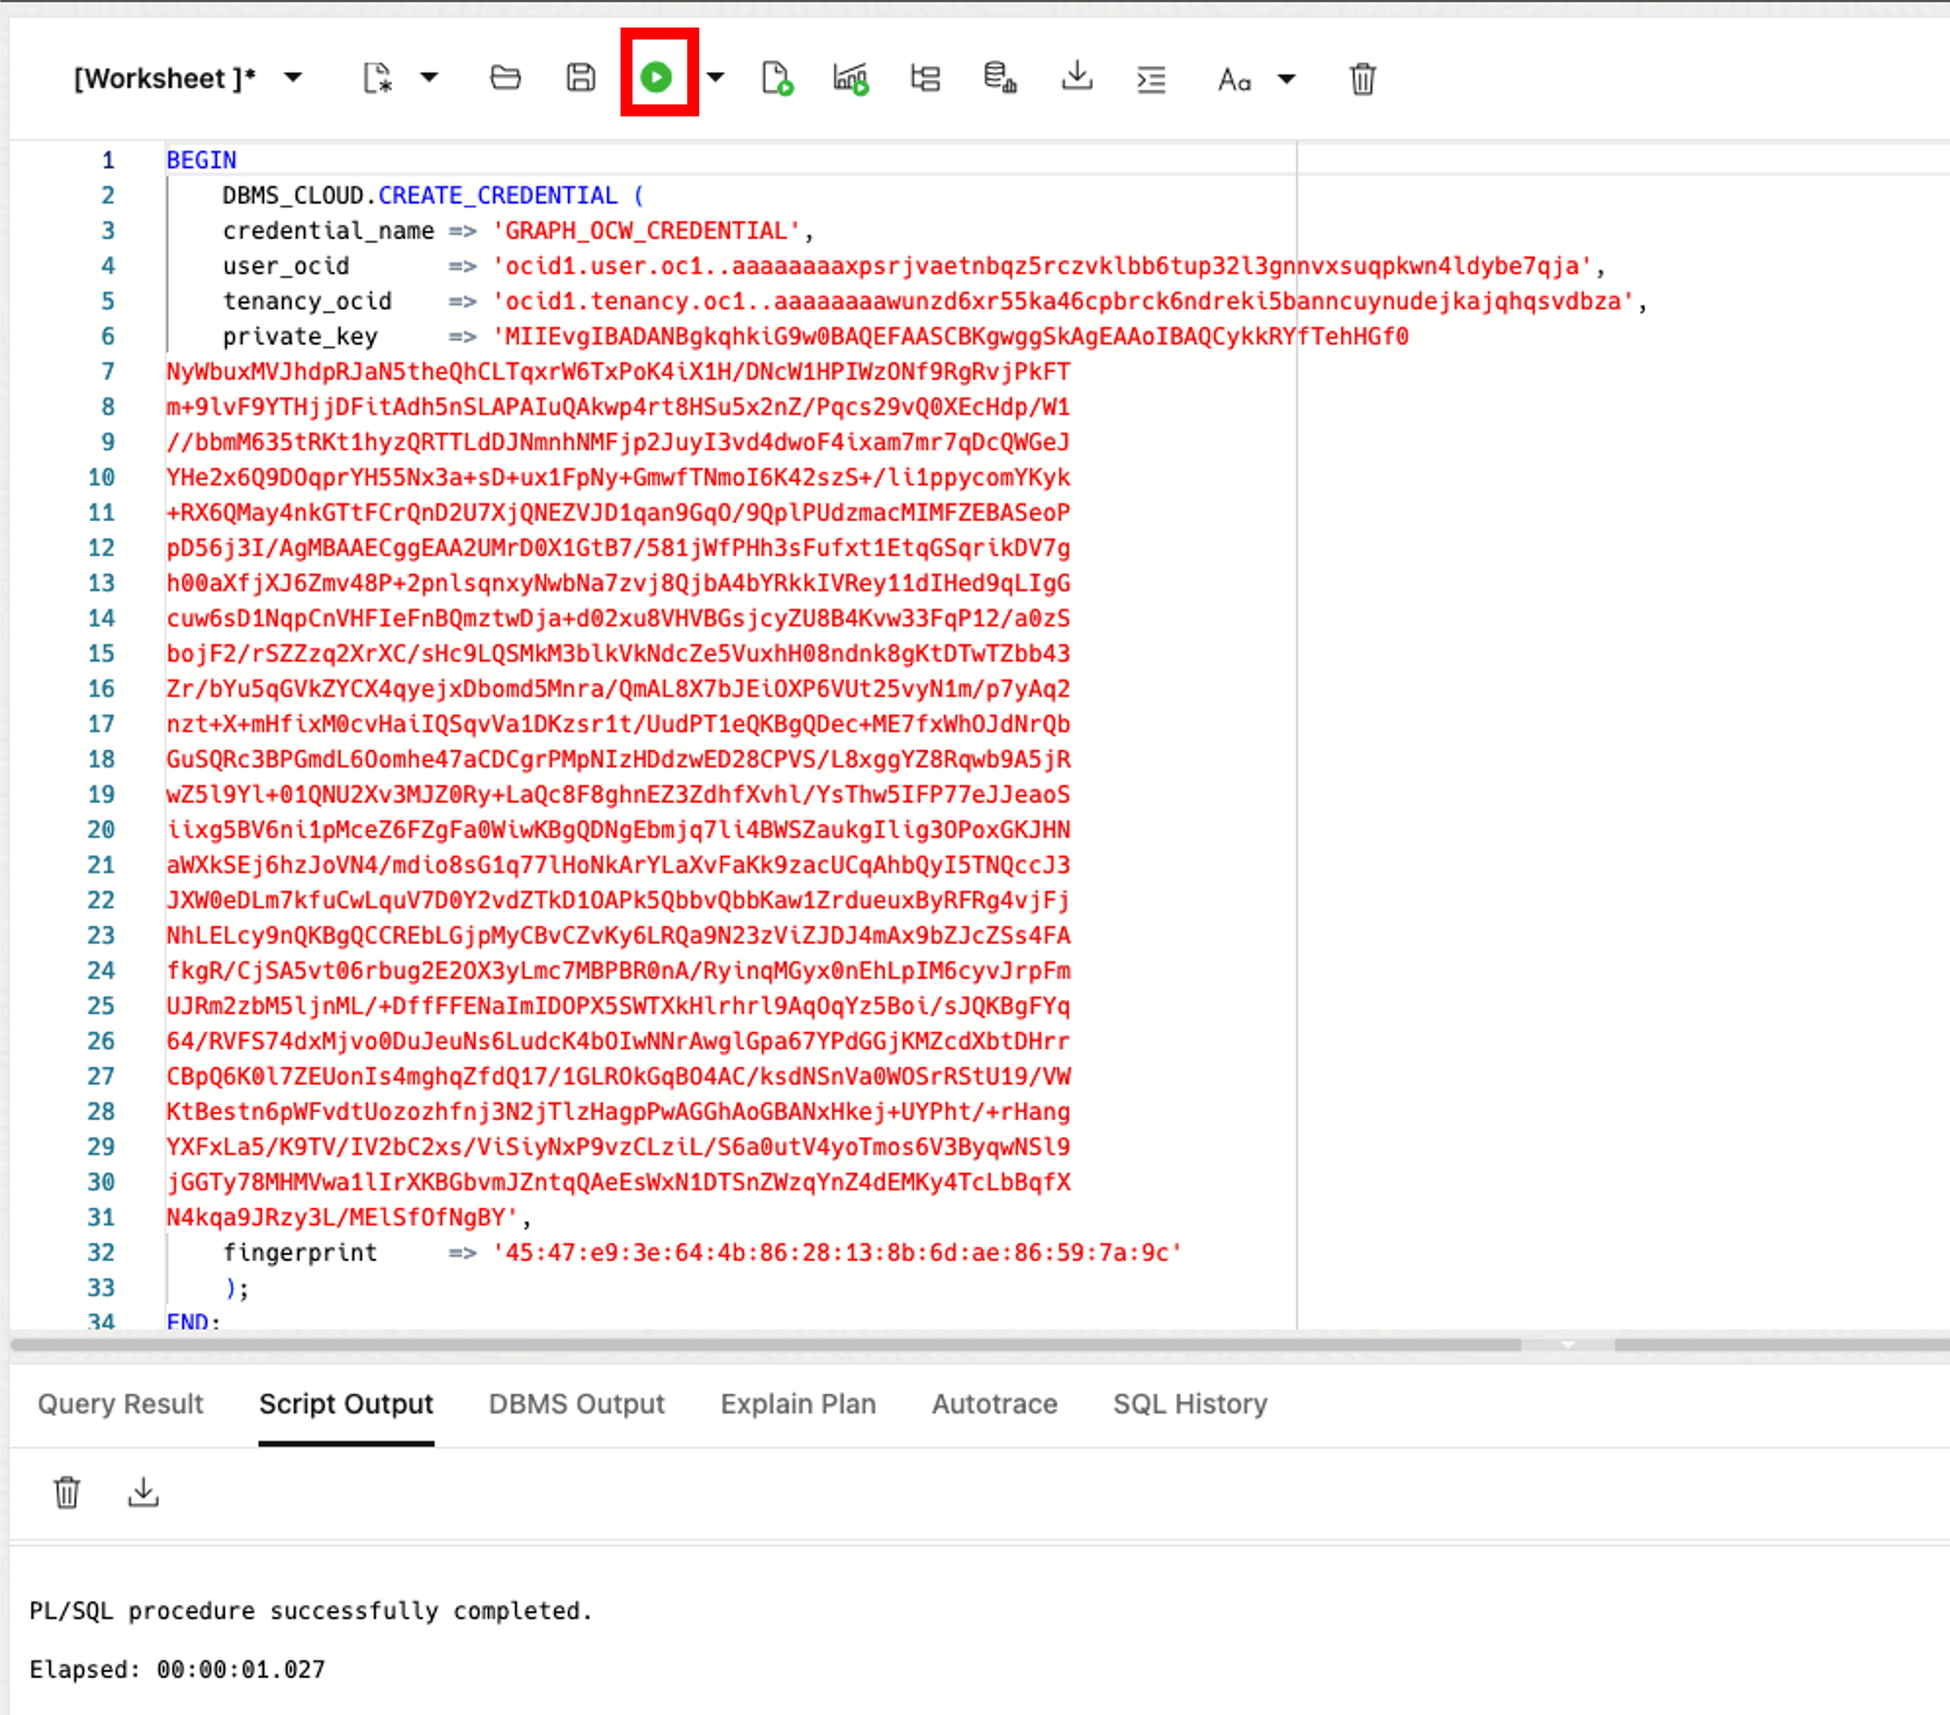
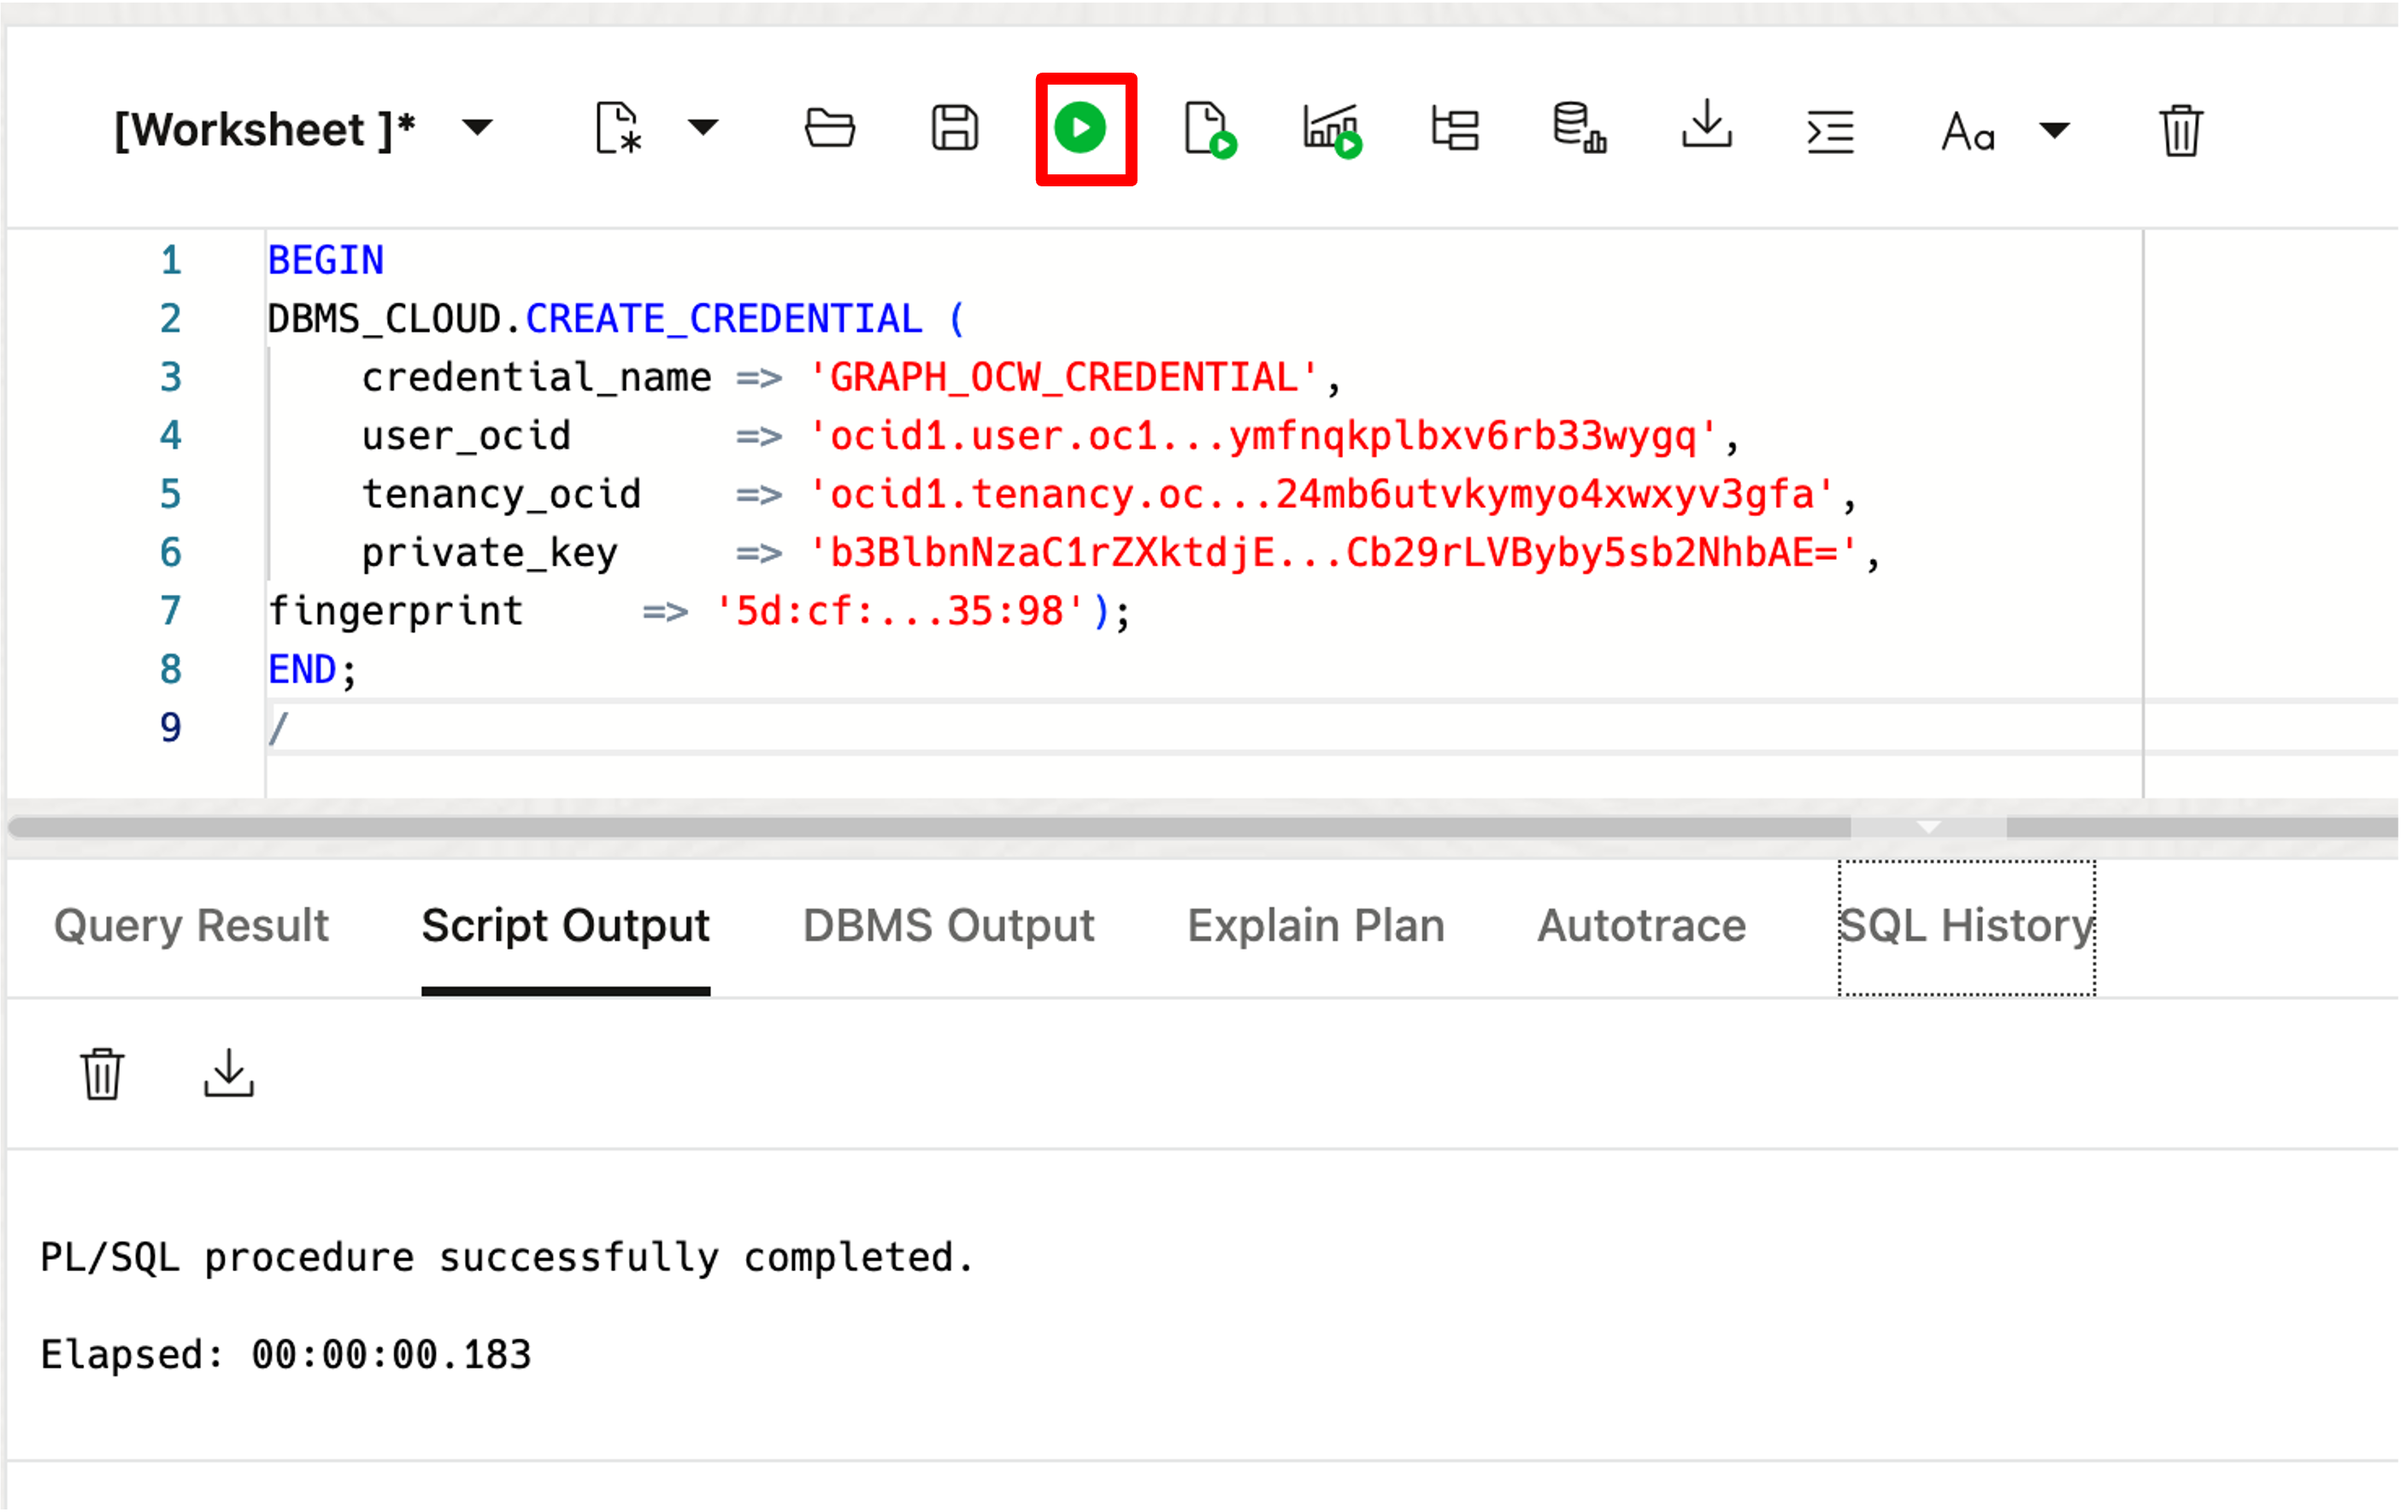
updated instructions

diff --git a/adb-graph/graph-ml-23ai/genai-setup/genai-setup.md b/adb-graph/graph-ml-23ai/genai-setup/genai-setup.md
@@ -71,10 +71,9 @@ Learn how to
     <tenancy> can be found in the text file as 'tenancy'
     <private_key> can be found as the contents .pem file that does not have the '_public' extension.
     <fingerprint> can be found in the text file as 'fingerprint' 
-
     ```
 
-    Copy and paste the following code, and make the necessary changes: 
+    Copy and paste the following code, and make the necessary changes.
 
     ```
     <copy>
@@ -90,7 +89,7 @@ Learn how to
     /</copy>
     ```
 
-    Here is an example of how it should look:
+    Here is **an example** of how it should look. Then run the the script using the **Run Statement** button to create the DBMS Cloud Credential. 
 
     ```
     BEGIN
@@ -104,38 +103,43 @@ Learn how to
     /
     ```
 
-    Run the the script using the **Run Statement** button to create the DBMS Cloud Credential. 
-
     ![Create the DBMS Cloud Credential.](images/dbms-credentials.png " ") 
 
-3. Then, create a Gen AI profile using the default llama model. Copy and run this script using the **Run Script** button. 
+3. Then, create a Gen AI profile using the default llama model. You will need this information:  
 
     ```
-    <copy>begin    
-
-        -- drops the profile if it already exists
-        DBMS_CLOUD_AI.drop_profile(profile_name => 'genai', force => true);
-
-        -- Create an AI profile that uses the default LLAMA model on OCI
-        dbms_cloud_ai.create_profile(
-            profile_name => 'genai',
-            attributes =>       
-                '{"provider": "oci",
-                "credential_name": "GRAPH_OCW_CREDENTIAL",
-                "comments":"true",            
-                "object_list": [
-                    {"owner": "MOVIESTREAM", "name": "MOVIE"},
-                    {"owner": "MOVIESTREAM", "name": "CUSTOMER"},
-                    {"owner": "MOVIESTREAM", "name": "WATCHED"},
-                    {"owner": "MOVIESTREAM", "name": "WATCHED_WITH"}
-                ]
-                }'
-            );
-
-    end;
-    /</copy>
+    <oci_compartment_id> can be found in the text file as 'Compartment_ocid' 
     ```
-    ![Create a GenAI profile using thte default llama model.](images/genai-profile.png " ") 
+
+    Copy and paste the following code, and make the necessary changes. Then run this script using the **Run Script** button. 
+
+    ```
+     <copy>begin    
+         -- drops the profile if it already exists
+         DBMS_CLOUD_AI.drop_profile(profile_name => 'genai', force => true);
+
+         -- Create an AI profile that uses the default LLAMA model on OCI
+         dbms_cloud_ai.create_profile(
+             profile_name => 'genai',
+             attributes =>       
+                 '{"provider": "oci",
+                 "credential_name": "GRAPH_OCW_CREDENTIAL",
+                 "comments":"true",            
+                 "oci_compartment_id": "<compartment_ocid>",
+                 "object_list": [
+                     {"owner": "MOVIESTREAM", "name": "MOVIE"},
+                     {"owner": "MOVIESTREAM", "name": "CUSTOMER"},
+                     {"owner": "MOVIESTREAM", "name": "WATCHED"},
+                     {"owner": "MOVIESTREAM", "name": "WATCHED_WITH"}
+                 ]
+                 }'
+             );
+
+     end;
+     /</copy>
+    ```
+
+    ![Create a GenAI profile using the default llama model.](images/genai-profile.png " ") 
 
     This concludes this lab. **You may now proceed to the next lab.**
 
